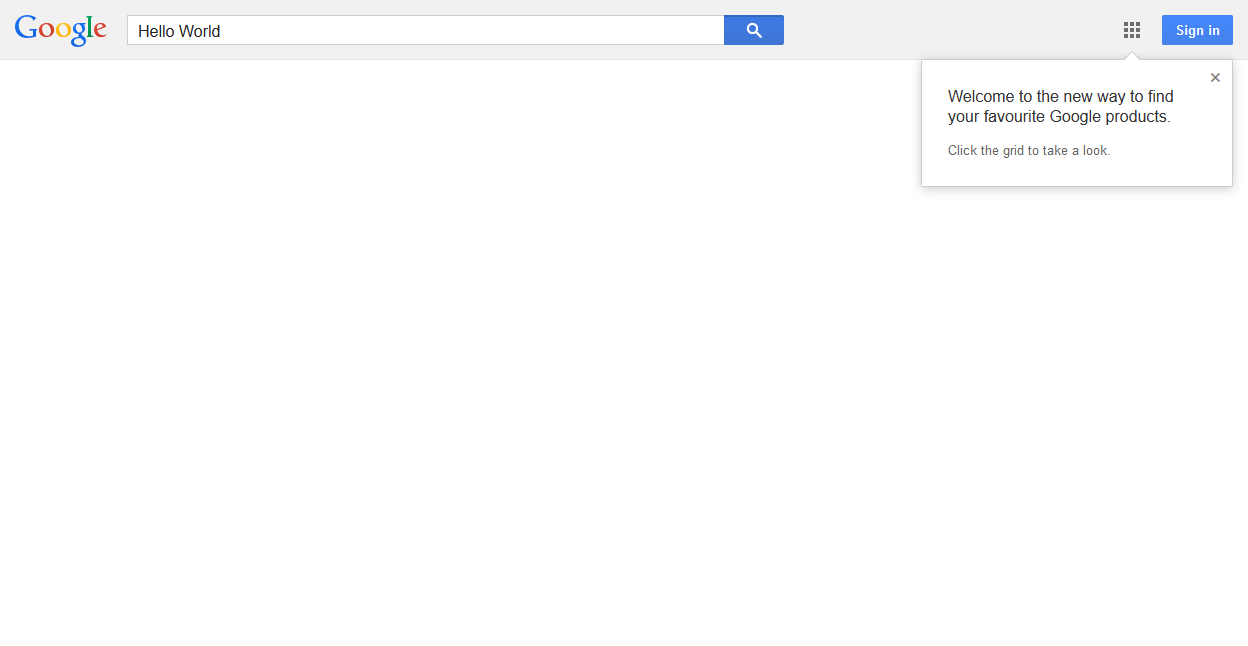
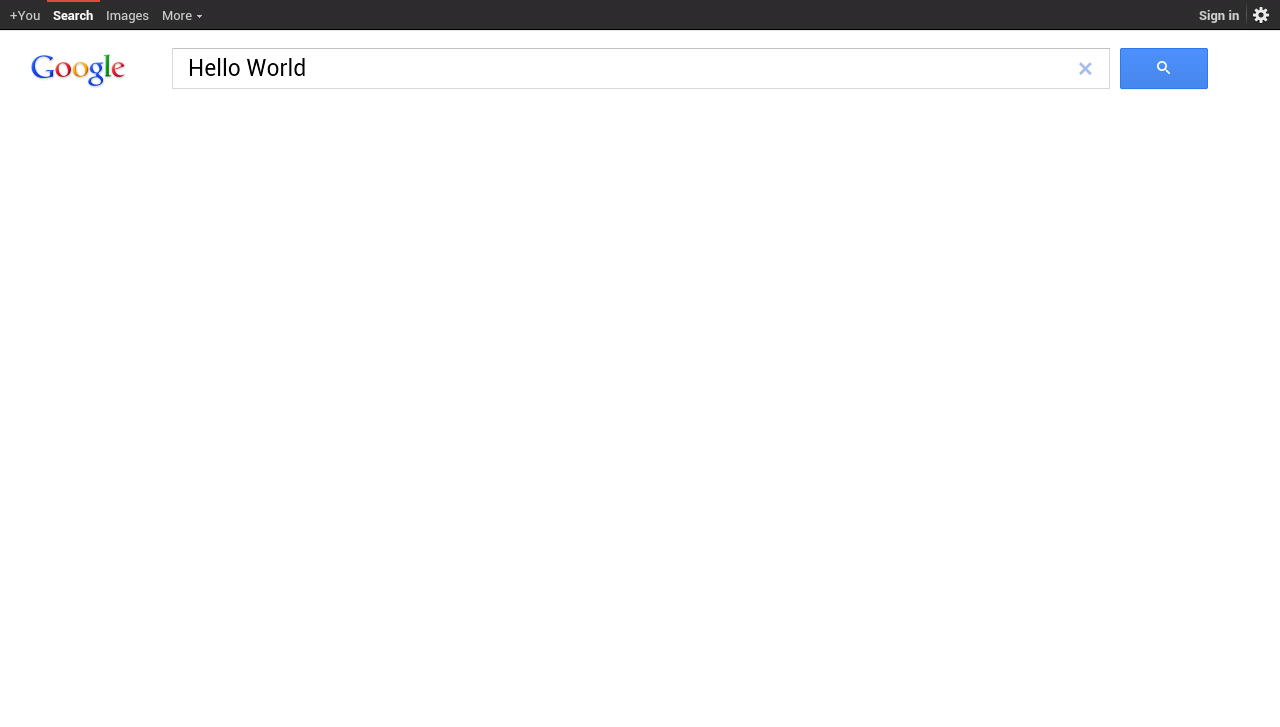
added screenshots change to use mobile testing

Changed region(s): [[0.0, 0.0, 1.0, 0.1858], [0.75, 0.2786, 0.9688, 0.3096], [0.75, 0.2167, 0.9062, 0.2477]]

diff --git a/target/cucumber-html-report/foo/report.js b/target/cucumber-html-report/foo/report.js
@@ -7,7 +7,7 @@ formatter.feature({
   "line": 1
 });
 formatter.before({
-  "duration": 72791,
+  "duration": 73793,
   "status": "passed"
 });
 formatter.scenario({
@@ -36,26 +36,32 @@ formatter.step({
 formatter.match({
   "location": "GoogleSearchFeature.The_search_is_Hello_World()"
 });
-formatter.write("img - 1");
+formatter.write("img 1");
 formatter.embedding("image/png", "embedded0.png");
 formatter.result({
-  "duration": 14620633663,
+  "duration": 7278886283,
   "status": "passed"
 });
 formatter.match({
   "location": "GoogleSearchFeature.The_Search_is_performed()"
 });
+formatter.write("img 2");
 formatter.embedding("image/png", "embedded1.png");
 formatter.result({
-  "duration": 1286657231,
+  "duration": 2273383212,
   "status": "passed"
 });
 formatter.match({
   "location": "GoogleSearchFeature.The_browser_title_should_have_Hello_World()"
 });
+formatter.write("img 3");
 formatter.embedding("image/png", "embedded2.png");
 formatter.result({
-  "duration": 2115057300,
+  "duration": 661211344,
+  "status": "passed"
+});
+formatter.after({
+  "duration": 43407,
   "status": "passed"
 });
 });

diff --git a/src/test/java/cucumberdemo/GoogleSearchFeature.java b/src/test/java/cucumberdemo/GoogleSearchFeature.java
@@ -2,12 +2,21 @@ package cucumberdemo;
 
 
 
+import java.io.File;
+import java.net.URL;
+
 import org.openqa.selenium.By;
+import org.openqa.selenium.Capabilities;
 import org.openqa.selenium.OutputType;
+import org.openqa.selenium.TakesScreenshot;
 import org.openqa.selenium.WebDriver;
 
 import org.openqa.selenium.firefox.FirefoxDriver;
 import org.openqa.selenium.htmlunit.HtmlUnitDriver;
+import org.openqa.selenium.remote.Augmenter;
+import org.openqa.selenium.remote.CapabilityType;
+import org.openqa.selenium.remote.DesiredCapabilities;
+import org.openqa.selenium.remote.RemoteWebDriver;
 
 import cucumber.api.PendingException;
 import cucumber.api.Scenario;
@@ -24,7 +33,7 @@ public class GoogleSearchFeature{
 
 	WebDriver driver;
 	private Scenario scenario;
-	private Scenario result;
+	
 	
 	@Before
 	public void before(Scenario scenario) {
@@ -35,21 +44,21 @@ public class GoogleSearchFeature{
 	
 	@Given("^The search is Hello World$")
 	public void The_search_is_Hello_World() throws Throwable {
-		driver = new FirefoxDriver();//new AndroidDriver(); //new HtmlUnitDriver();
+		driver =  getWebDriver();//new AndroidDriver(); //new HtmlUnitDriver();
         driver.get("http://www.google.co.uk");
+        
+      
         driver.findElement(By.xpath("//input[@name='q']")).sendKeys("Hello World");
         
-        scenario.write("img - 1");
-        byte[] screenshot = ((FirefoxDriver) driver).getScreenshotAs(OutputType.BYTES);
-		scenario.embed(screenshot, "image/png");
+        
+        captureScreenshot("img 1", (RemoteWebDriver) driver);
 	}
 	
 	@When("^The Search is performed$")
 	public void The_Search_is_performed() throws Throwable {
 		driver.findElement(By.name("btnG")).click(); 
 		
-		byte[] screenshot = ((FirefoxDriver) driver).getScreenshotAs(OutputType.BYTES);
-		scenario.embed(screenshot, "image/png");
+		 captureScreenshot("img 2", (RemoteWebDriver) driver);
 		
 	}
 	
@@ -58,20 +67,51 @@ public class GoogleSearchFeature{
 		System.err.println("driver title = "+driver.getTitle());
 		assertThat ("Browser title:",driver.getTitle(), containsString("Hello World"));
 		
-		byte[] screenshot = ((FirefoxDriver) driver).getScreenshotAs(OutputType.BYTES);
-		scenario.embed(screenshot, "image/png");
-        
-		
-		driver.quit();
+	   captureScreenshot("img 3", (RemoteWebDriver) driver);
+	   driver.quit();
 	}
 	
 	@After
 	public void embedScreenshot(Scenario scenario) {
-	    if(result.isFailed()) {
+	    if(scenario.isFailed()) {
 	        byte[] screenshot = ((FirefoxDriver) driver).getScreenshotAs(OutputType.BYTES);
 	        scenario.embed(screenshot, "image/png");
 	    }
 	}
+	
+	
+	private void captureScreenshot(String comment, RemoteWebDriver driver){
+
+		WebDriver webDriver = driver;
+		webDriver = new Augmenter().augment(webDriver);
+		byte[] screenshot = ((TakesScreenshot) webDriver)
+				.getScreenshotAs(OutputType.BYTES);
+		scenario.write(comment);
+		scenario.embed(screenshot, "image/png");		
+		
+	}
+	
+	private WebDriver getWebDriver() throws Exception {
+		
+		//		WebDriver driver = new AndroidDriver();
+				
+			
+				//			WebDriver driver = new RemoteWebDriver(
+			//	                new URL("http://localhost:8080/wd/hub"), 
+			//	                DesiredCapabilities.chrome());
+			//			
+				// We could use any driver for our tests...
+				DesiredCapabilities chrome = DesiredCapabilities.chrome();
+				// ... but only if it supports javascript
+				chrome.setJavascriptEnabled(true);
+				// Get a handle to the driver. This will throw an exception
+				// if a matching driver cannot be located
+				driver = new RemoteWebDriver(new URL("http://localhost:8080/wd/hub"), chrome);
+				// Query the driver to find out more information			
+				Capabilities actualCapabilities = ((RemoteWebDriver) driver).getCapabilities();
+				System.err.println(actualCapabilities.getBrowserName());
+				return driver;
+		}
 	
 	
 }

diff --git a/README.md b/README.md
@@ -1,3 +1,20 @@
-To run 
+<b>To run </b>
 
 mvn clean integration-test
+
+
+<b>Before running.</b>
+
+Make sure the following steps have been run.
+
+C:\Projects\MobileAutomationTesting>adb devices
+List of devices attached
+c161fa07c18c660 device
+
+
+C:\Projects\MobileAutomationTesting>adb -s c161fa07c18c660 shell am start -a android.intent.action.MAIN -n org.openqa.selenium.android.app/.
+MainActivity
+Starting: Intent { act=android.intent.action.MAIN cmp=org.openqa.selenium.android.app/.MainActivity }
+
+
+adb -s c161fa07c18c660 forward tcp:8080 tcp:8080
